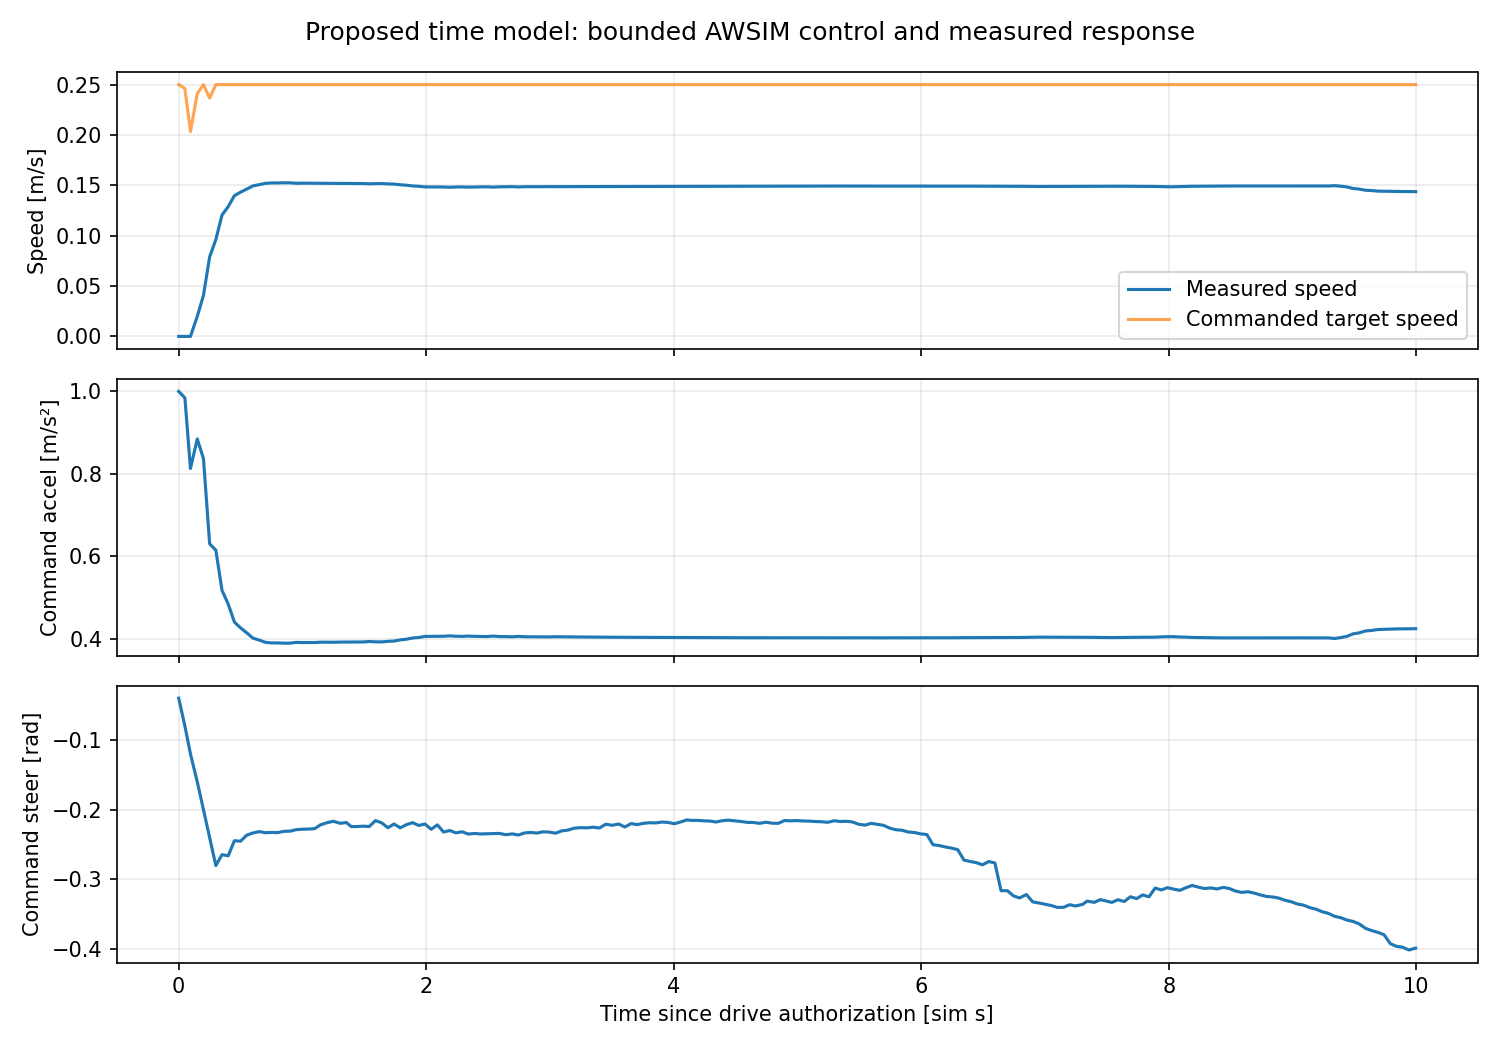
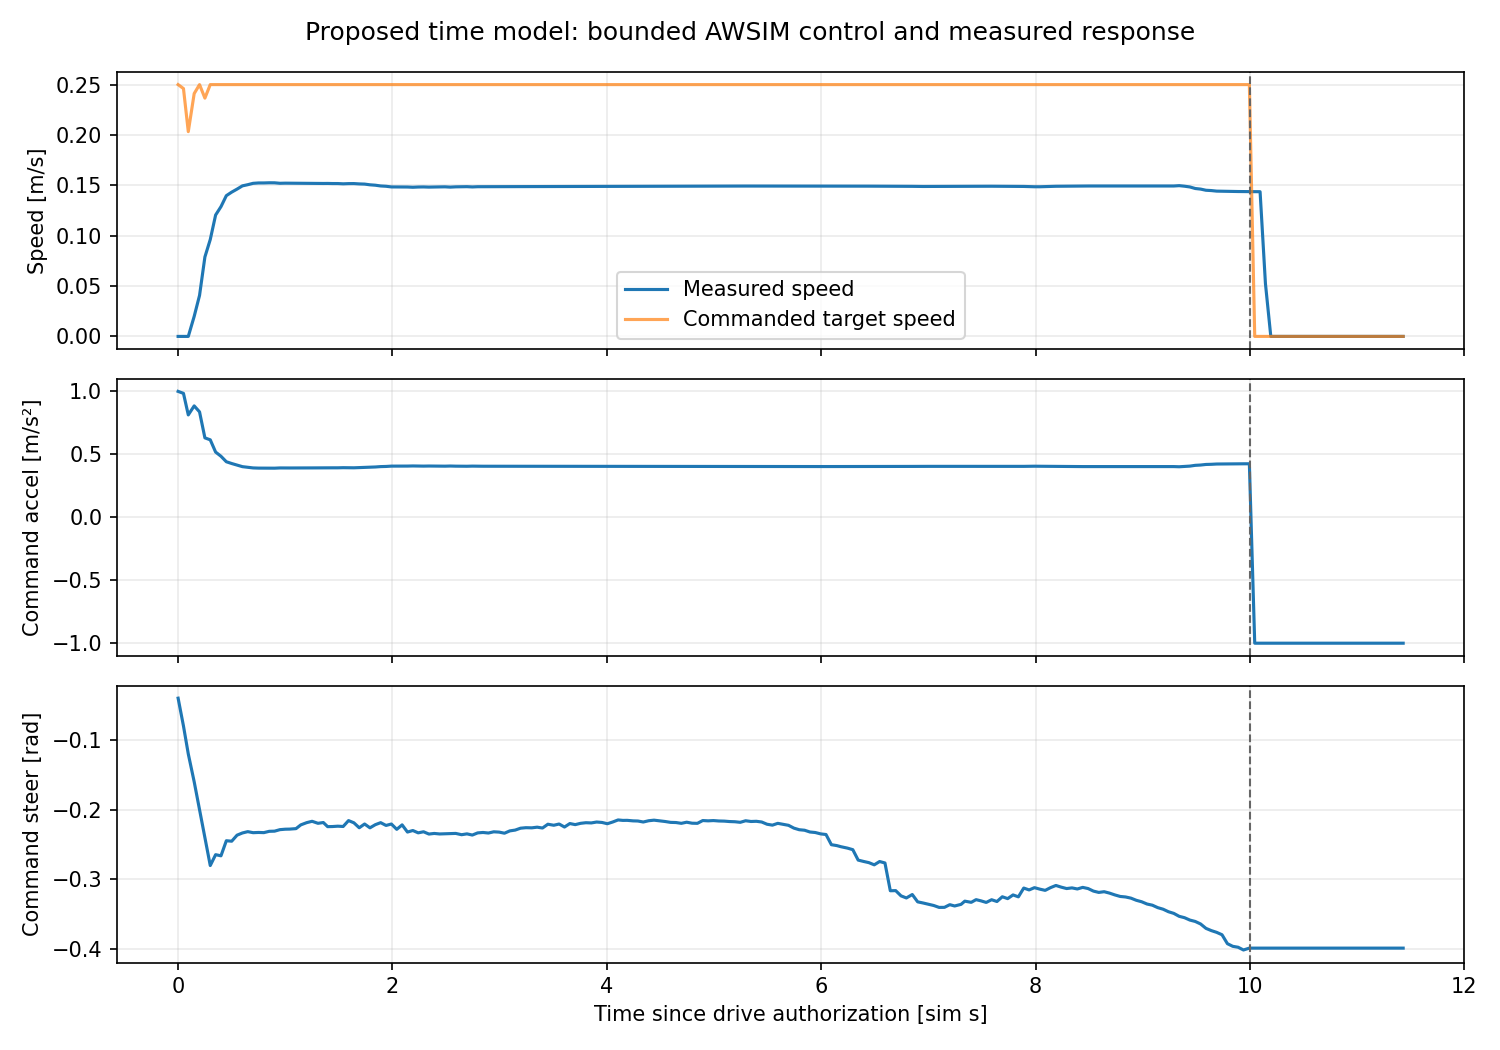
Finalize control replay and bounded AWSIM result verification

diff --git a/docs/time_origin_guard_20260913.md b/docs/time_origin_guard_20260913.md
@@ -88,6 +88,11 @@ trial04の89経路は全件新形状判定でRESOLVED。実指令にも `distanc
 試行時間54.565 wall秒、入力欠損による推論拒否3件、推論故障なし、cleanup errorなし。
 推論時間は中央値51.40 ms、p95 102.33 ms。50 ms入力確定待ちや制御までの総遅延は含まない。
 
+保存した生予測、観測pose、現在pose、実測速度からWSLで制御計算を再実行し、**201/201指令が一致**した。
+比較対象は形状判定とPure Pursuit計算（出力時の操舵角速度制限前）。許容差1e-9に対し最大数値差4.44e-16。
+最終集計と図はcode `a354943`、WSL `evaluation04_replay/` に保存。
+元のtrial03ログはposeがないため `NOT_RECORDED` とし、再現できたと扱わないことも確認した。
+
 ![実測速度・加速度指令・操舵指令](evidence/time_origin_guard_20260913/control_timeline.png)
 
 ![生30点の予測](evidence/time_origin_guard_20260913/raw_time_paths.png)
@@ -113,6 +118,14 @@ trial04の89経路は全件新形状判定でRESOLVED。実指令にも `distanc
 [AWSIMホスト結果](evidence/time_origin_guard_20260913/host_result.json)、
 [WSL評価](evidence/time_origin_guard_20260913/summary.json)を保存した。
 生の20記録ファイルは[転送照合](evidence/time_origin_guard_20260913/trial04_transfer_verification.json)済み。
+選択した最終成果物12件も[コピー元とのSHA-256照合](evidence/time_origin_guard_20260913/final_artifact_verification.json)を完了した。
+最終時点の[ホスト確認](evidence/time_origin_guard_20260913/final_environment.json)では、今回のコンテナ・Compose project・AWSIM/ROS processは0。
+既存39 Compose projectは保全した。
+
+主な変更は [形状検証](../src/aic_transfuser_lite/control/time_geometry_v2.py)、
+[制御への適用](../src/aic_transfuser_lite/control/time_trial_v1.py)、
+[ROS再現ログ](../ros2_ws/src/aic_e2e_runtime/aic_e2e_runtime/time_trial_controller_node.py)、
+[回帰テスト](../tests/test_time_geometry_v2.py)、監査・評価CLI。
 
 host rootは `/home/graneple/e2e_autonomous/time_origin_guard_20260913`。
 WSL rootは `/home/thistle/e2e_autonomous/runs/time_origin_guard_20260913`。
